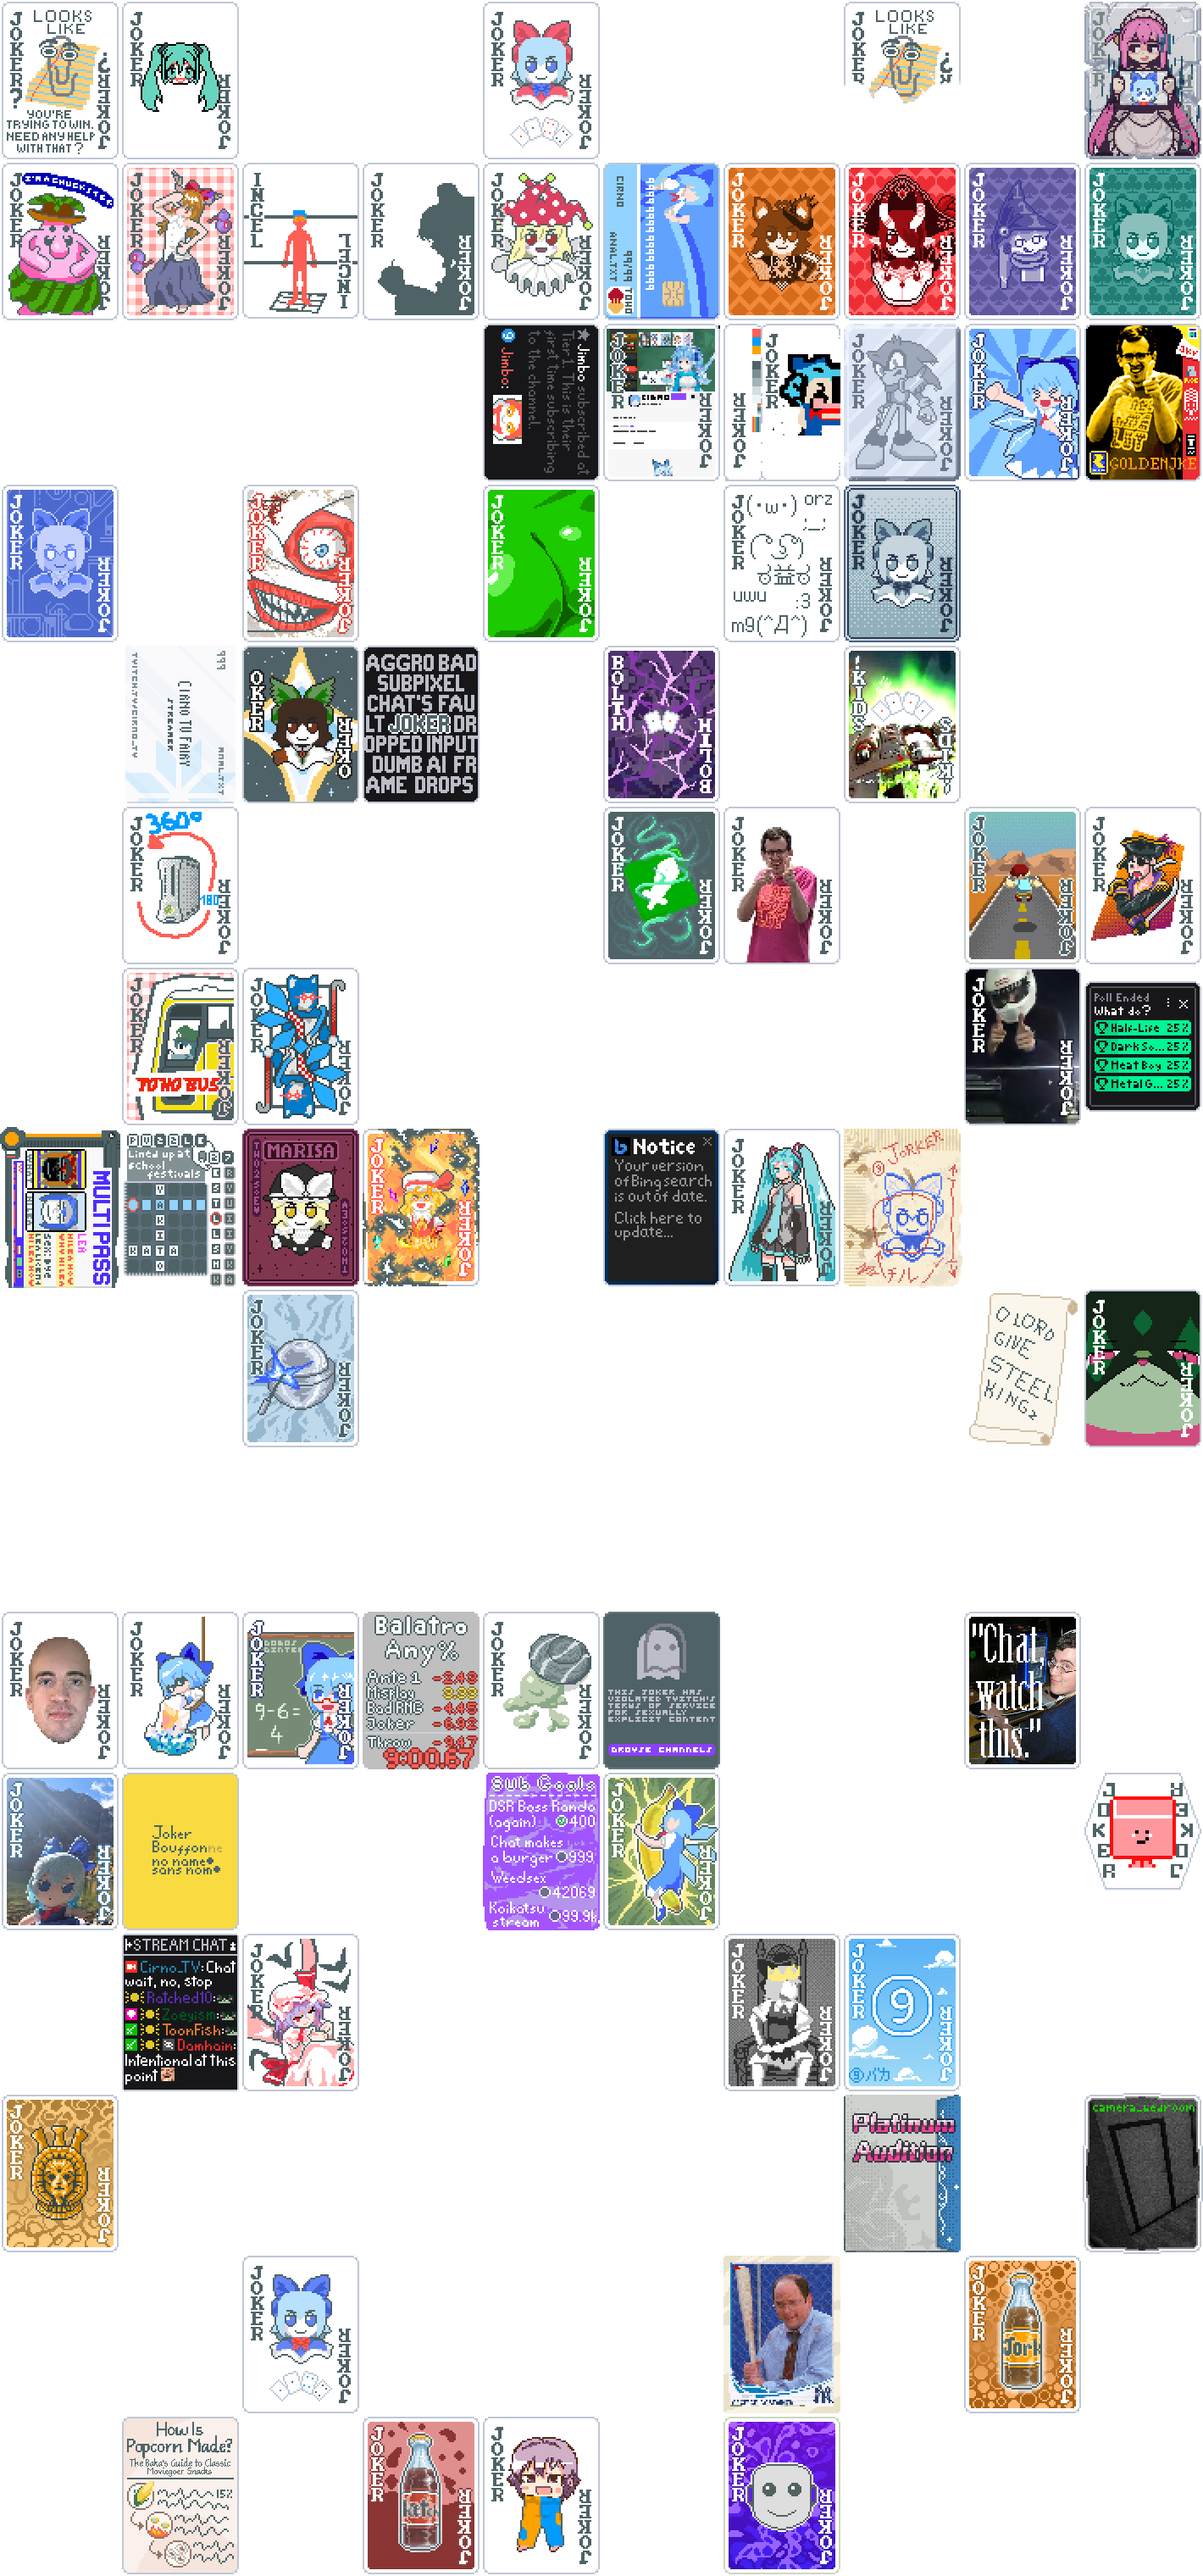
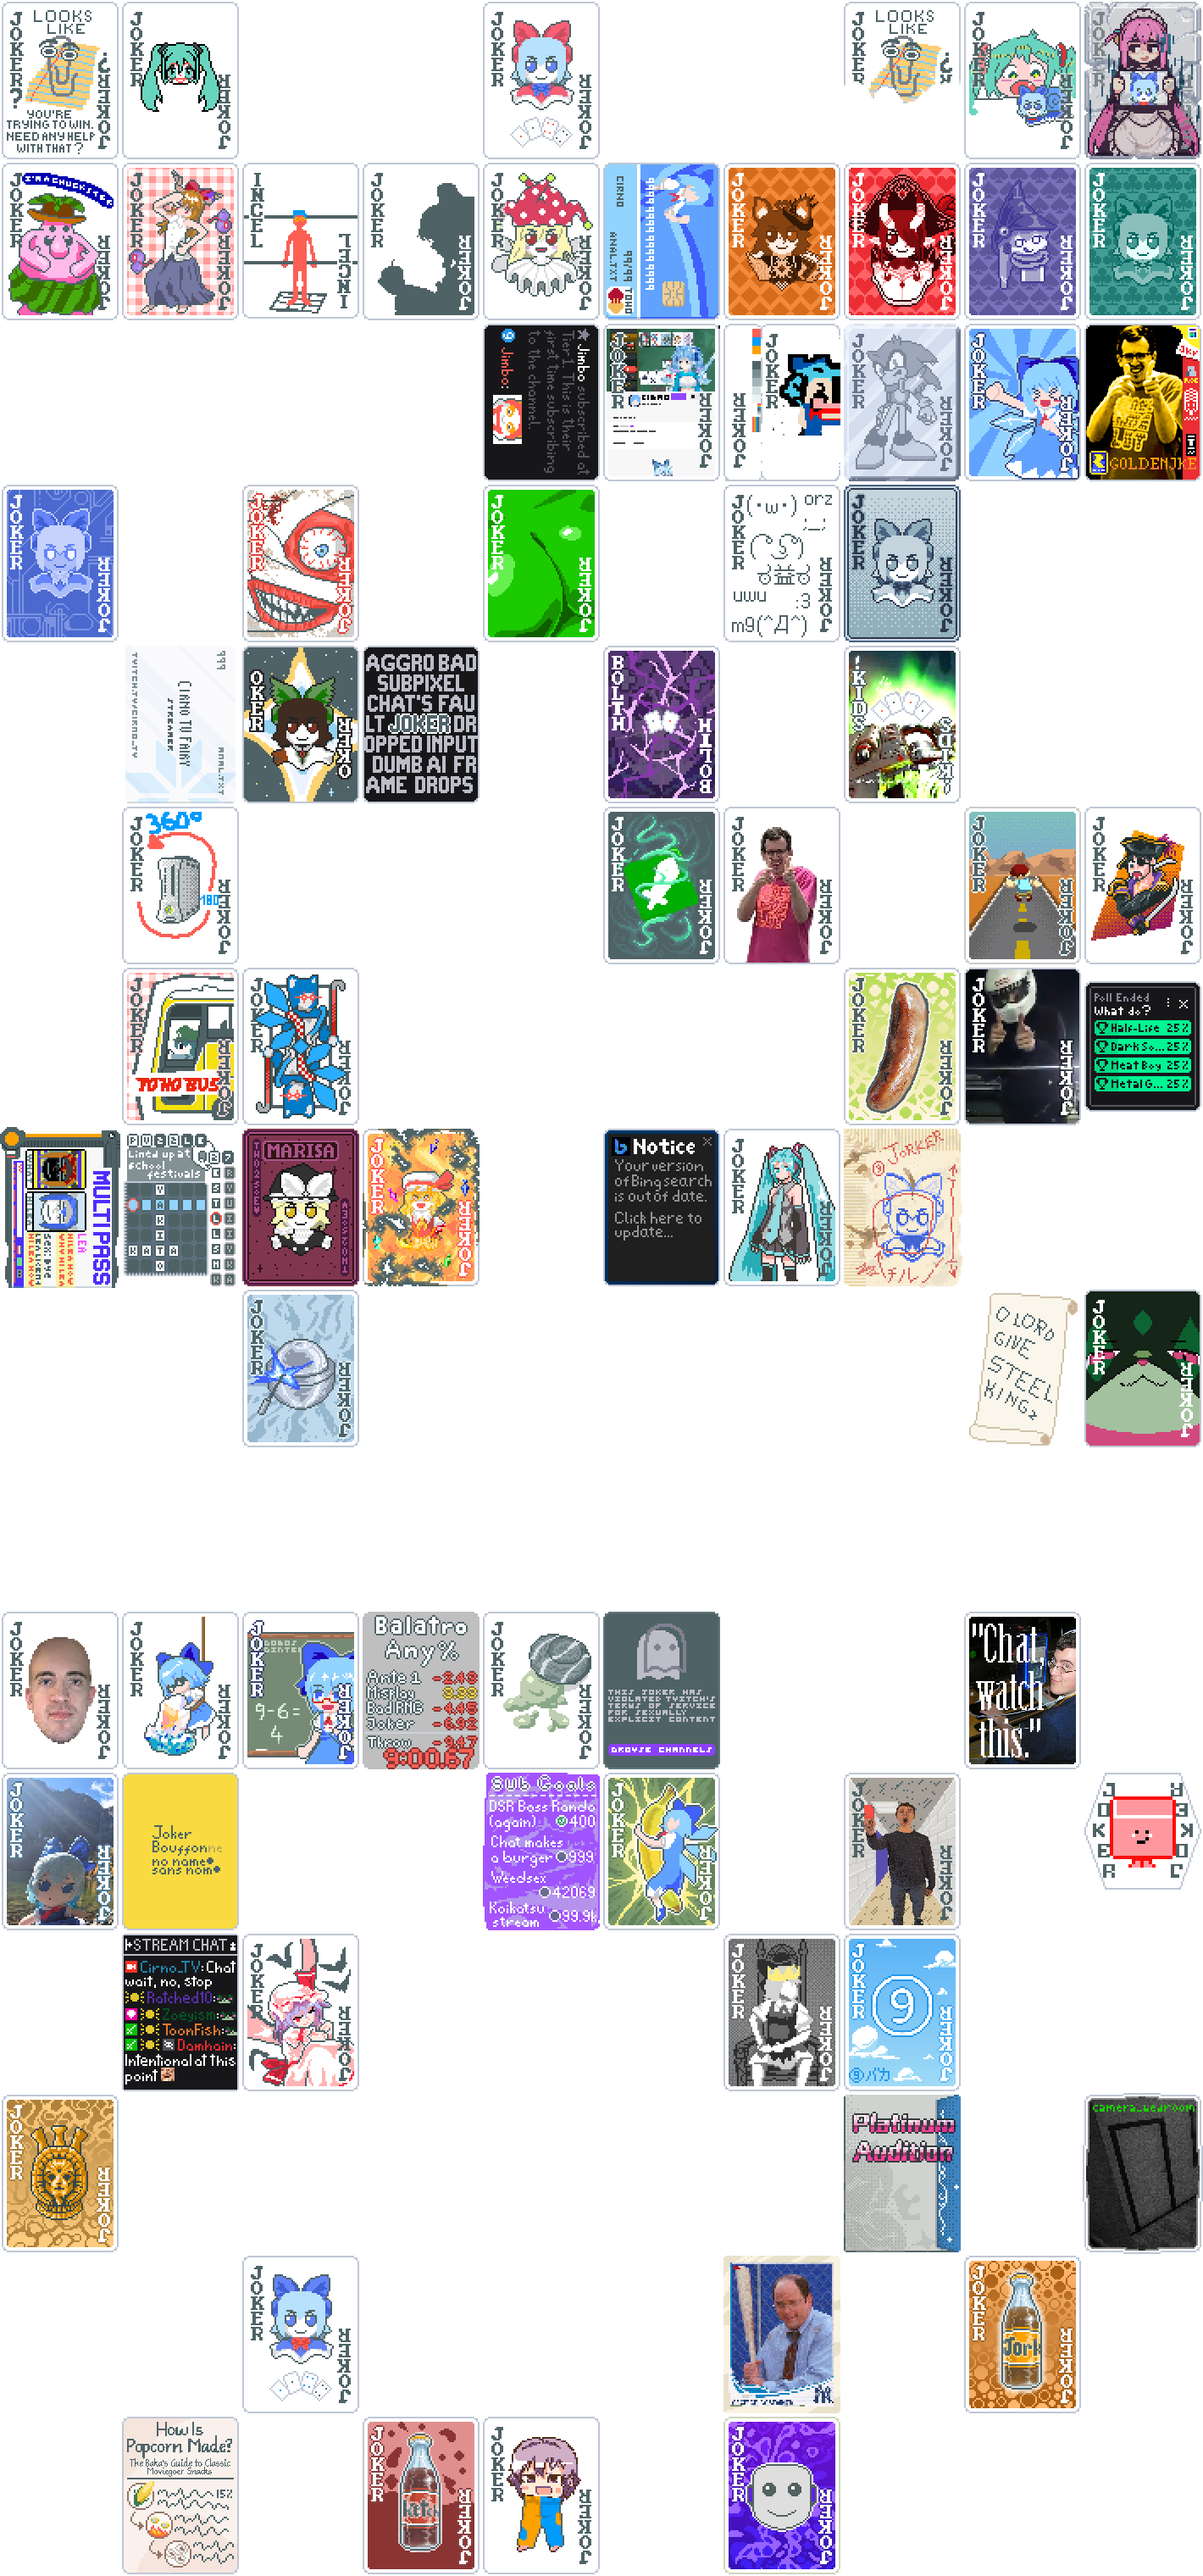
Gros Michel, Red Card & Merry Andy

Changed region(s): [[0.6817, 0.6875, 0.8056, 0.75], [0.6817, 0.375, 0.8056, 0.4375], [0.8056, 0.0, 0.8986, 0.0625]]

diff --git a/README.md b/README.md
@@ -15,7 +15,7 @@ DaemonTsun's art contributions are public domain - Some memes or pictures are no
 
 **Cirno_TV & Friends** currently:
 - Retextures:
-  - 82 Jokers (Some get filtered/altered by the Mature Reference setting depending on what it is set to.)
+  - 85 Jokers (Some get filtered/altered by the Mature Reference setting depending on what it is set to.)
   - All Blind Chips
   - All Seals
   - All Planet Cards
